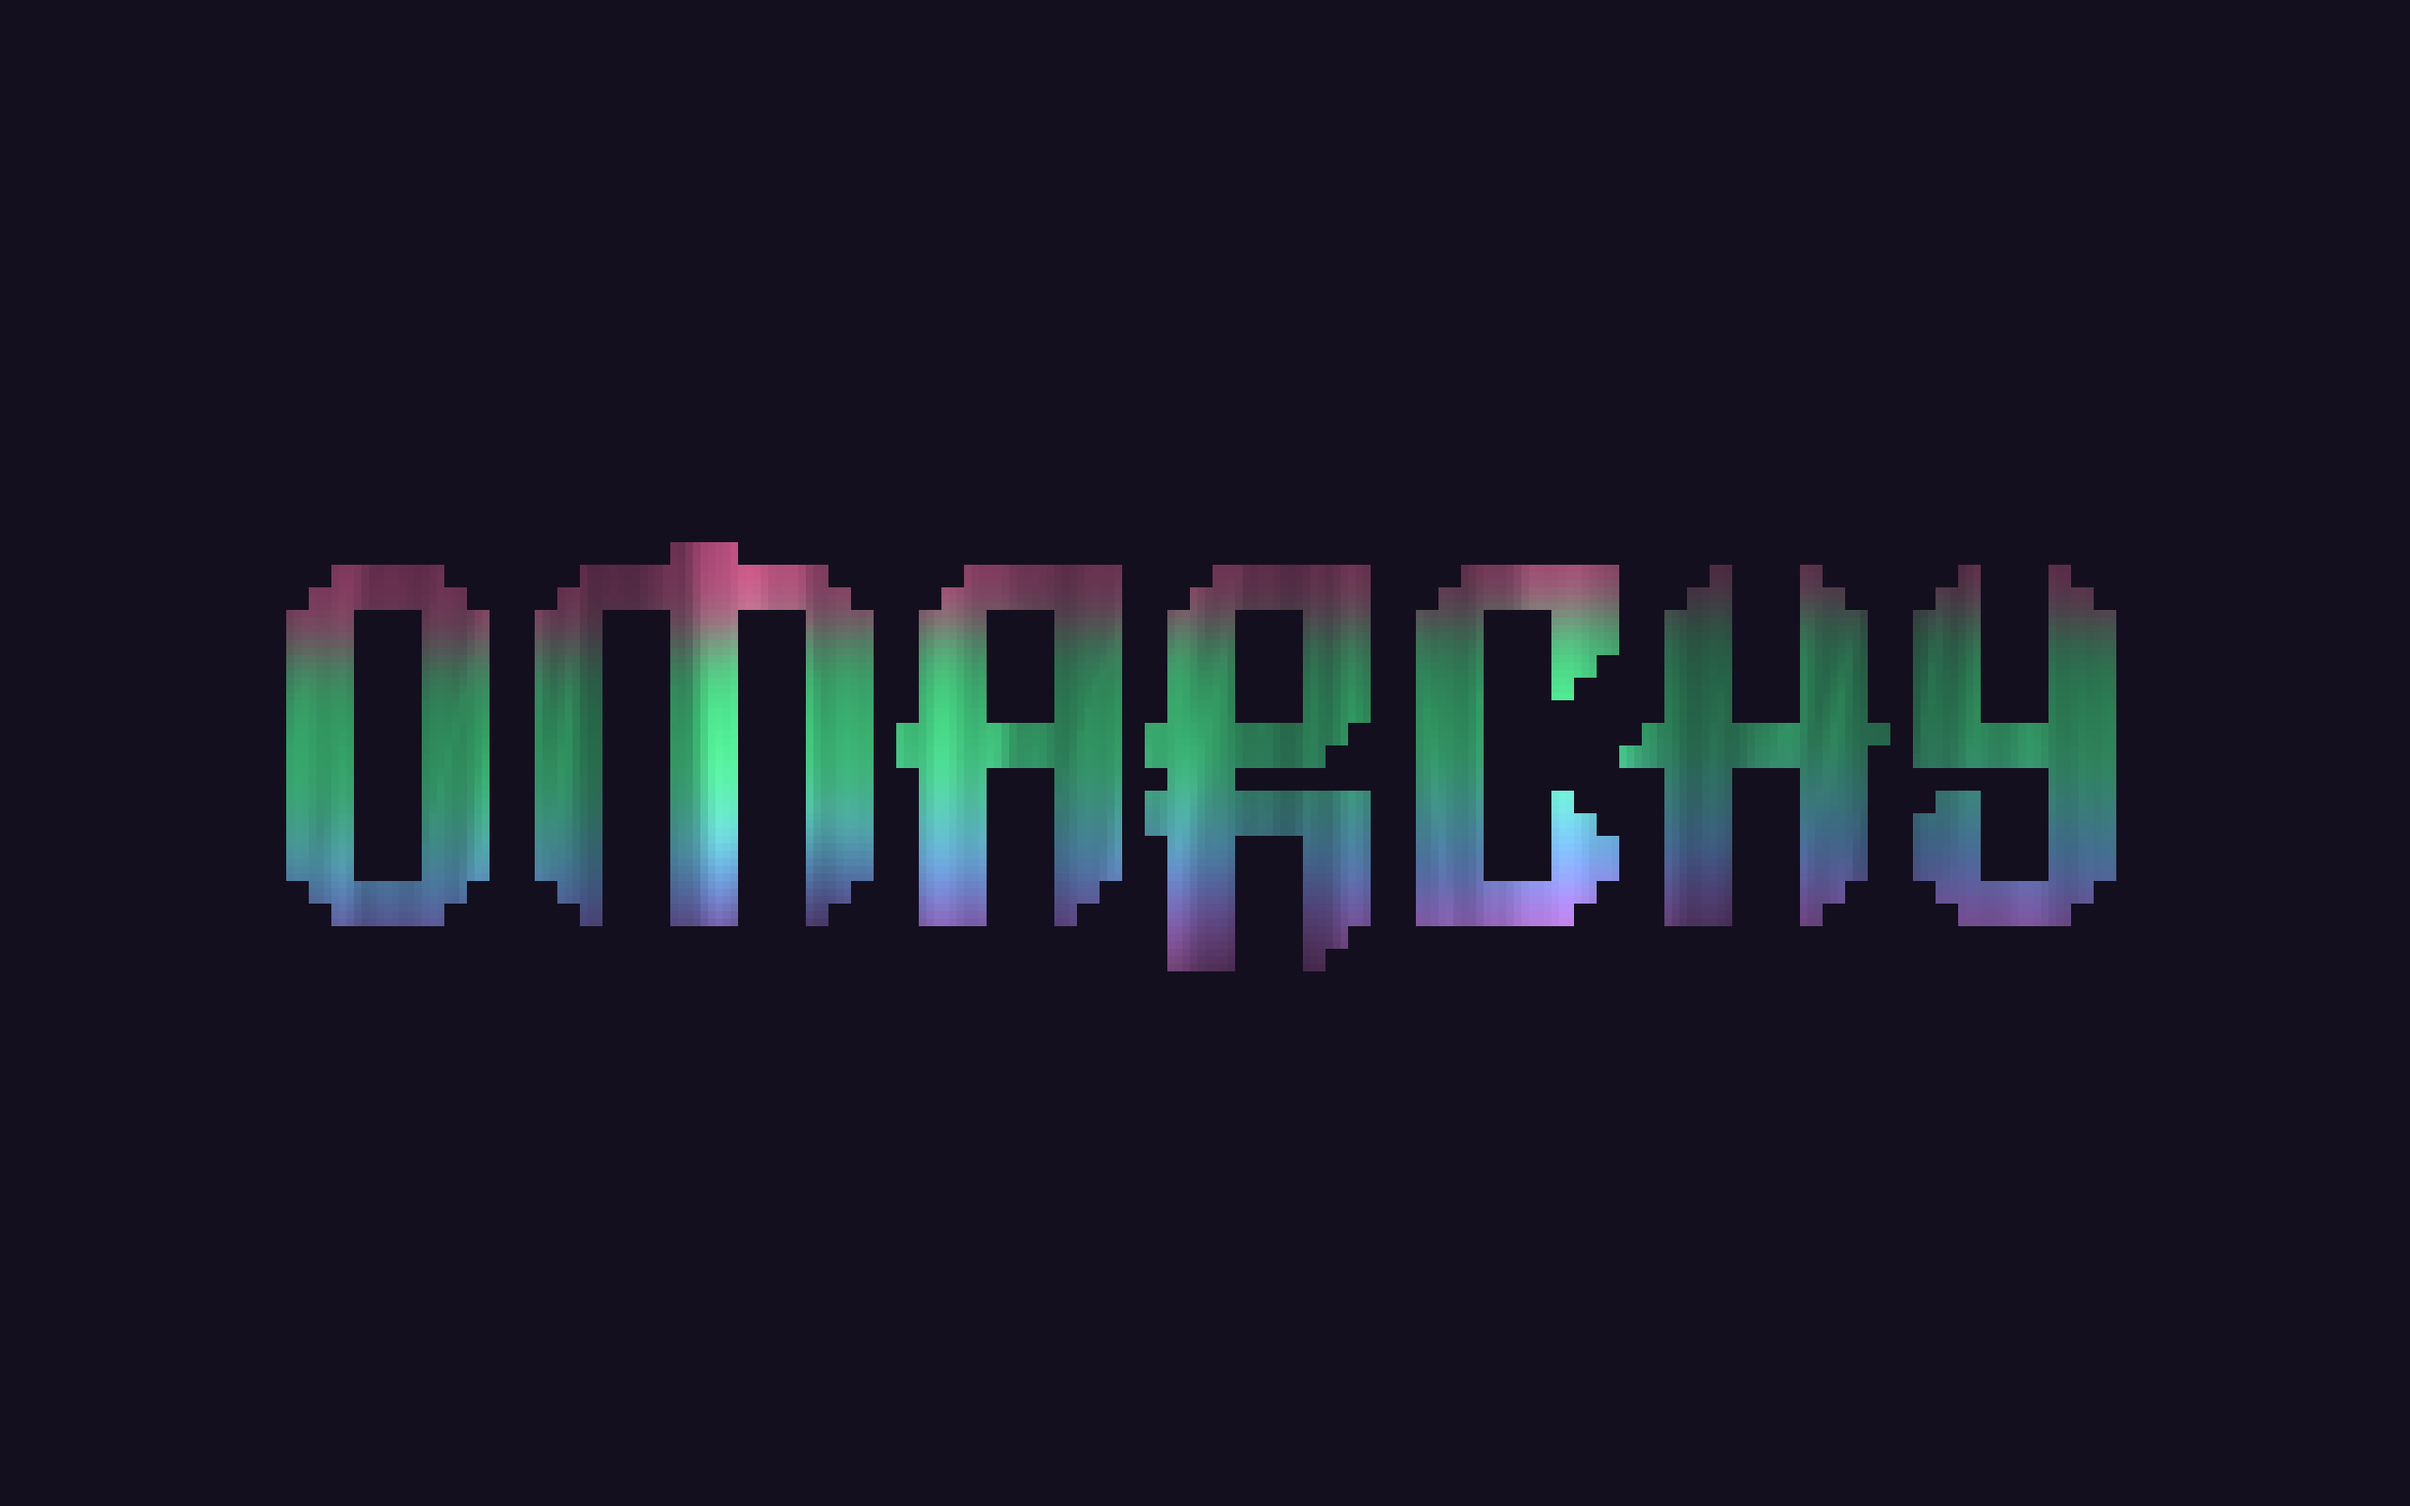
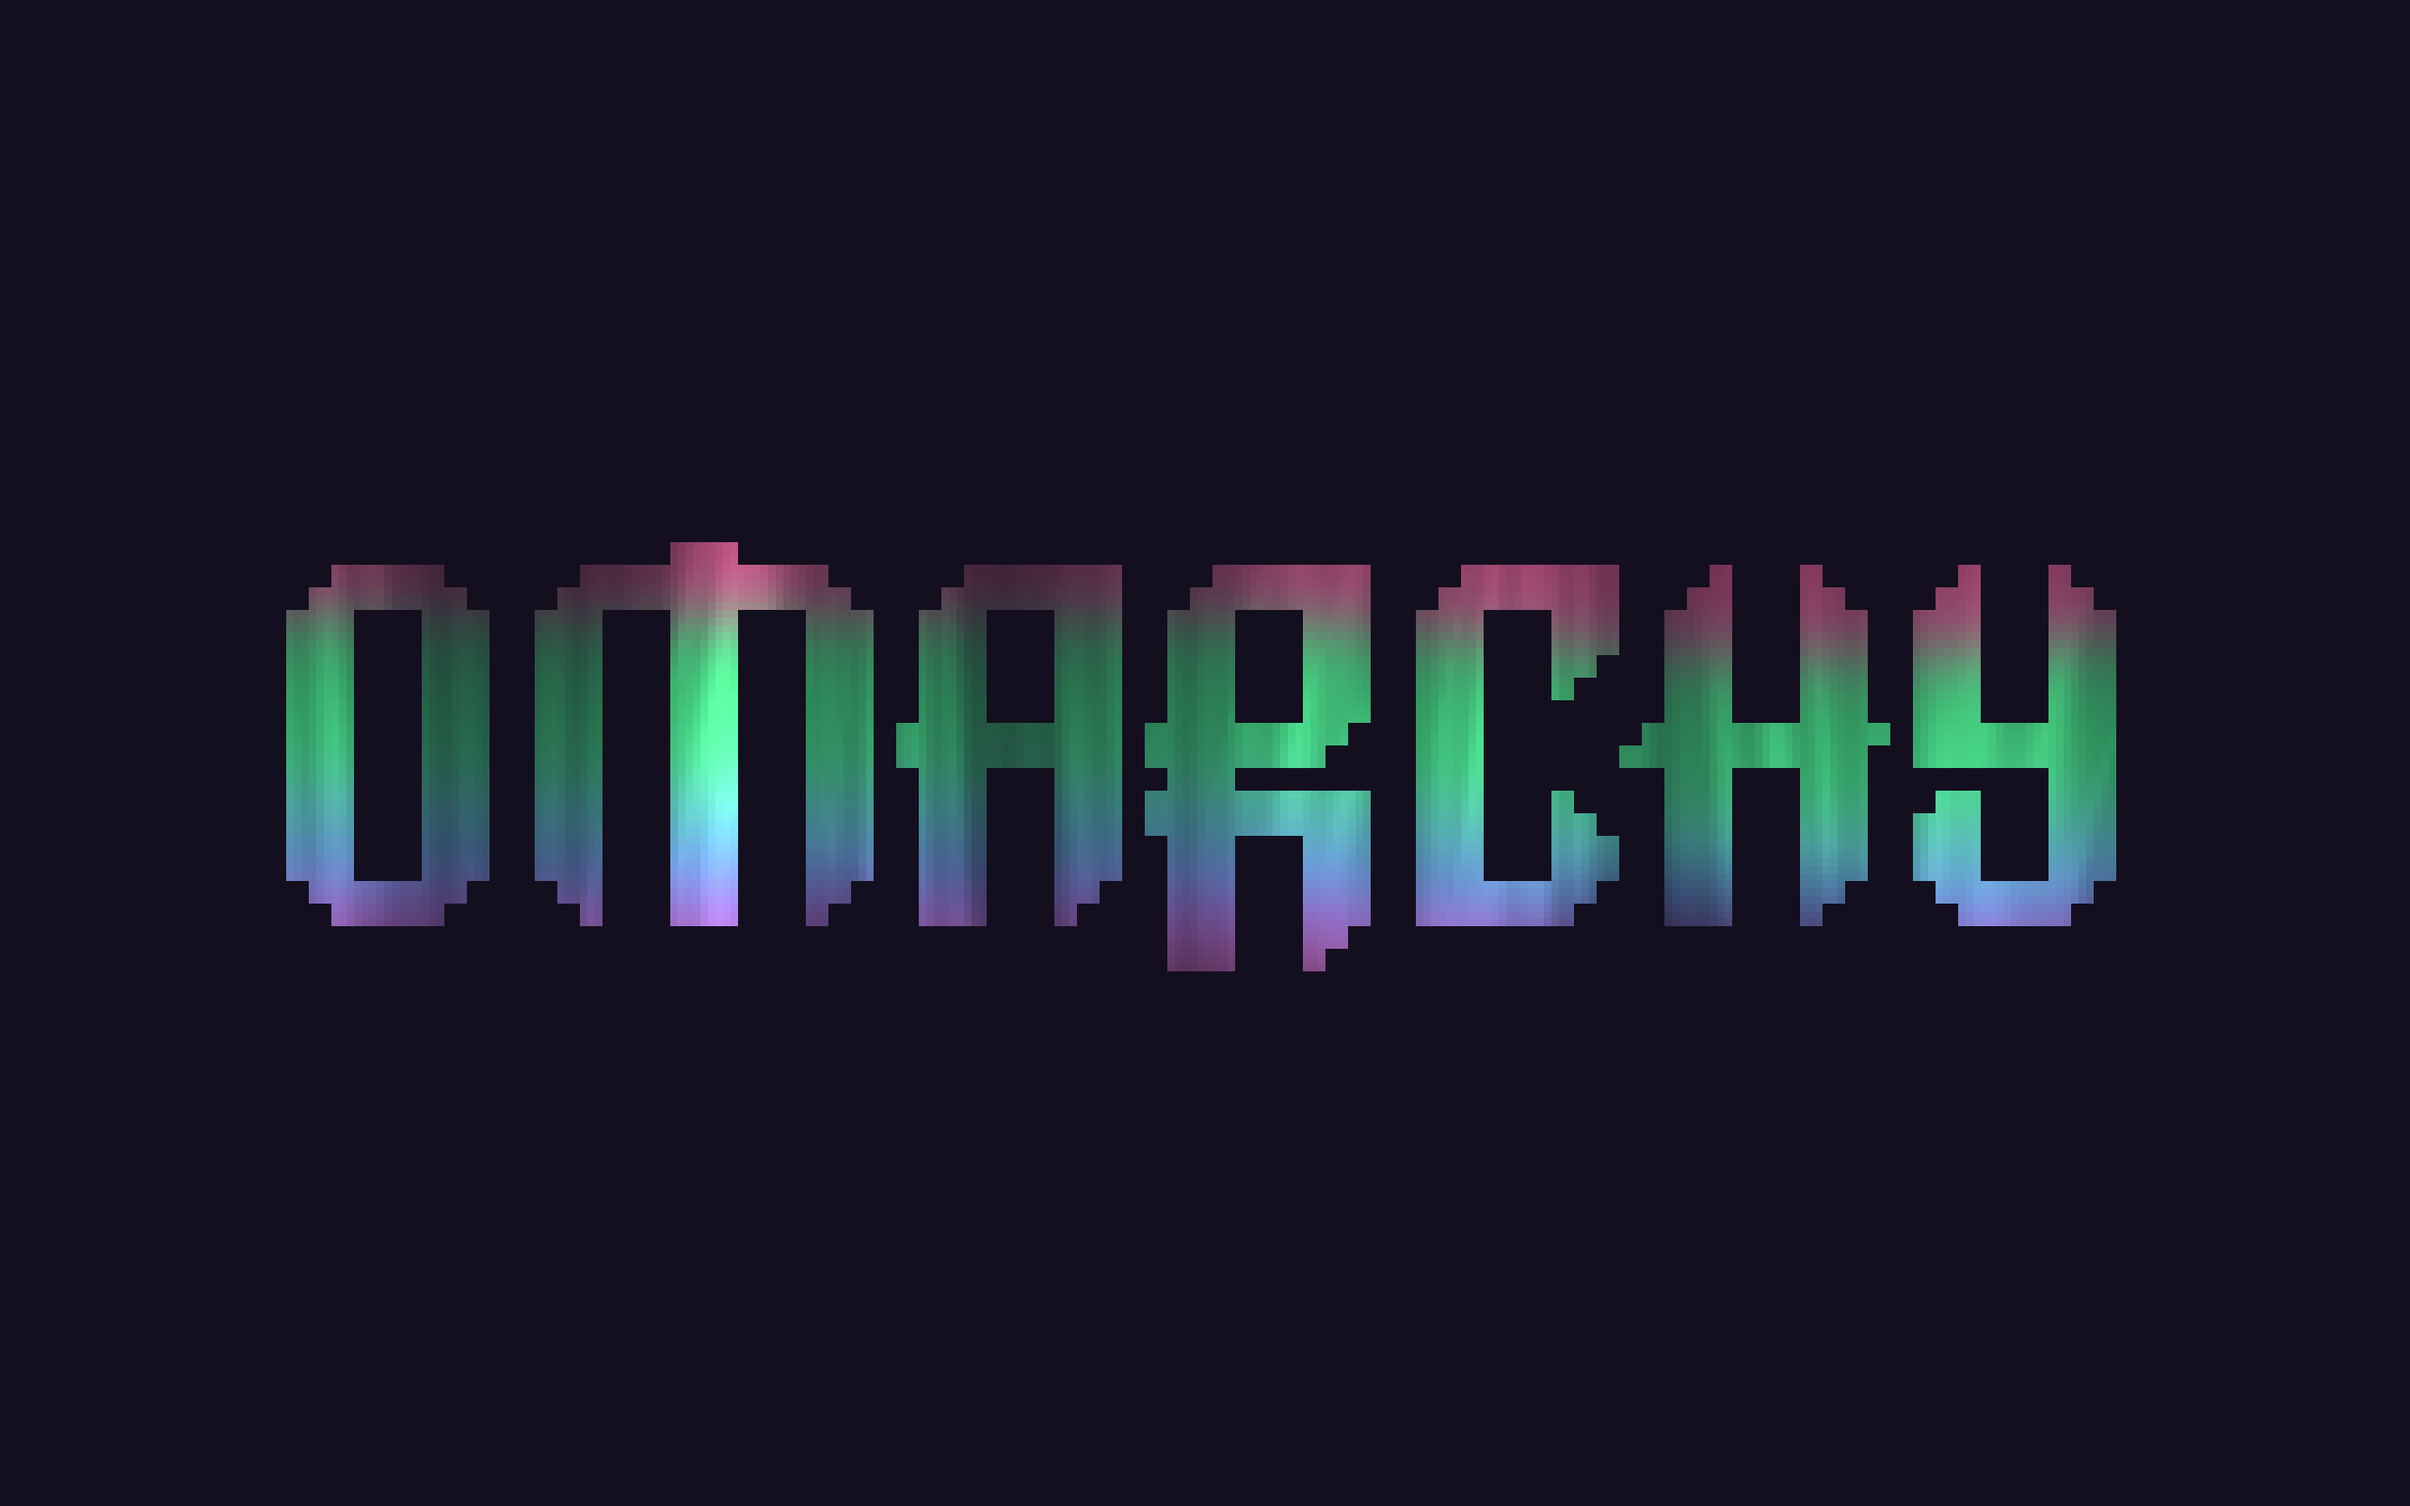
Refresh all preview stills with stronger animation frames

Changed region(s): [[0.2812, 0.375, 0.875, 0.6562], [0.0938, 0.375, 0.25, 0.625]]

diff --git a/tools/render_previews.py b/tools/render_previews.py
@@ -1,0 +1,47 @@
+"""Regenerate selected stills, the repository hero and the five-scene sheet."""
+import json
+import shutil
+
+import cv2
+import numpy as np
+
+from render import ROOT, NAMES, POSTER_FRAMES, FPS, SECONDS, frame, render
+
+
+def main():
+    titles=['Vestrahorn / emerald','Jokulsarlon / rose-violet',
+            'Kirkjufell / mint-teal','Svartifoss / violet',
+            'Omarchy / aurora veil']
+    reports=[]
+    # The sheet uses exact integer enlargements, including its cropped logo.
+    sheet=np.full((1432,1328,3),[20,15,31],np.uint8)
+    for kind,name in enumerate(NAMES):
+        render(kind,posters_only=True)
+        logical=frame(kind,2*np.pi*POSTER_FRAMES[kind]/(FPS*SECONDS))
+        if kind<4:
+            x=16+(kind%2)*656
+            y=16+(kind//2)*472
+            tile=cv2.resize(logical,(640,400),interpolation=cv2.INTER_NEAREST)
+        else:
+            x,y=24,960
+            tile=cv2.resize(logical[50:150],(1280,400),interpolation=cv2.INTER_NEAREST)
+        h,w=tile.shape[:2]
+        sheet[y:y+h,x:x+w]=tile
+        cv2.putText(sheet,titles[kind],(x,y+h+31),cv2.FONT_HERSHEY_SIMPLEX,
+                    .72,(223,237,229),1,cv2.LINE_8)
+        reports.append({'scene':name,'frame':POSTER_FRAMES[kind],
+                        'seconds':POSTER_FRAMES[kind]/FPS,
+                        'source':f'backgrounds/{name}.mp4',
+                        'still':f'previews/{name}.png'})
+    previews=ROOT/'previews'
+    shutil.copyfile(previews/'01-vestrahorn.png',ROOT/'preview.png')
+    # Retain the filename of the individually approved still for shared links.
+    shutil.copyfile(previews/'01-vestrahorn.png',previews/'borealis-vestrahorn-preview.png')
+    cv2.imwrite(str(previews/'contact-sheet.png'),cv2.cvtColor(sheet,cv2.COLOR_RGB2BGR))
+    (ROOT/'reports/stills.json').write_text(json.dumps({
+        'method':'Selected source frames; 2560x1600 nearest-neighbour 8x; original lighting and palette',
+        'hero':'preview.png','contact_sheet':'previews/contact-sheet.png','stills':reports},indent=2)+'\n')
+
+
+if __name__=='__main__':
+    main()

diff --git a/tools/render.py b/tools/render.py
@@ -14,6 +14,9 @@ from nightsky import draw_stars, draw_meteor
 ROOT=Path(__file__).resolve().parents[1]
 W,H,FPS,SECONDS=320,200,24,40
 NAMES=['01-vestrahorn','02-jokulsarlon','03-kirkjufell','04-svartifoss','05-omarchy']
+# Selected presentation frames from the actual 24 fps, 40-second loops.
+# Preserve the approved Vestrahorn still; other scenes use their own light peak.
+POSTER_FRAMES=[714,558,756,366,558]
 Y,X=np.mgrid[:H,:W].astype(np.float32)
 
 
@@ -303,7 +306,8 @@ def frame(kind,phase):
 def render(kind,posters_only=False):
     name=NAMES[kind]
     for folder in ['backgrounds','previews']:(ROOT/folder).mkdir(exist_ok=True)
-    poster=cv2.resize(frame(kind,0),(2560,1600),interpolation=cv2.INTER_NEAREST)
+    phase=2*np.pi*POSTER_FRAMES[kind]/(FPS*SECONDS)
+    poster=cv2.resize(frame(kind,phase),(2560,1600),interpolation=cv2.INTER_NEAREST)
     cv2.imwrite(str(ROOT/f'previews/{name}.png'),cv2.cvtColor(poster,cv2.COLOR_RGB2BGR))
     if posters_only:return
     command=['ffmpeg','-v','warning','-y','-f','rawvideo','-pix_fmt','rgb24',

diff --git a/README.md b/README.md
@@ -26,6 +26,11 @@ image-space blur filters, antialiasing or camera motion are used.
 These are stylized interpretations of the landmarks, with independently arranged
 night scenes. The fifth background uses the original Omarchy wordmark geometry.
 
+![All five Borealis backgrounds](previews/contact-sheet.png)
+
+The lead image and stills use selected frames from the animations, with the
+same lighting and palette. Frame times are recorded in [reports/stills.json](reports/stills.json).
+
 ## Readability
 
 The palette keeps deep violet surfaces, teal accents and pale text. Muted text,
@@ -166,7 +171,13 @@ python -m venv /tmp/borealis-render
 /tmp/borealis-render/bin/python tools/render.py
 ```
 
-Use `--posters-only` for stills or `--scene 4` for one background (1–5).
+Use `--posters-only` for the selected stills or `--scene 4` for one background (1–5).
+Regenerate all five stills, the repository lead image and the contact sheet with:
+
+```bash
+python tools/render_previews.py
+```
+
 `tools/aurora.py` defines the moving light veils and additive emission;
 `tools/render.py` draws the landmarks, reflections and wordmark, then encodes
 the videos. Both files are needed to regenerate the backgrounds.
